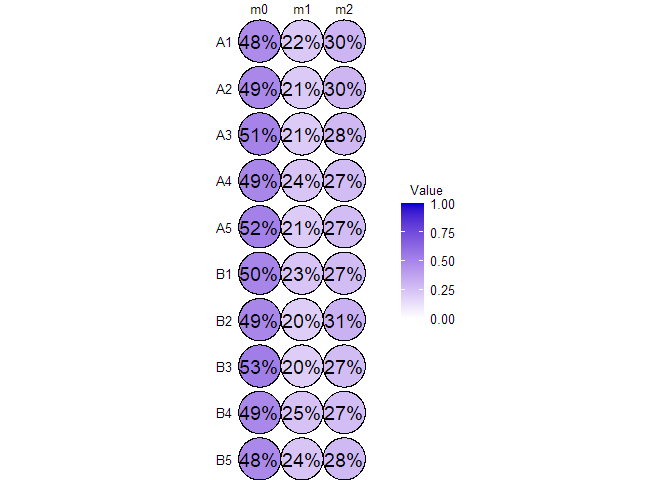
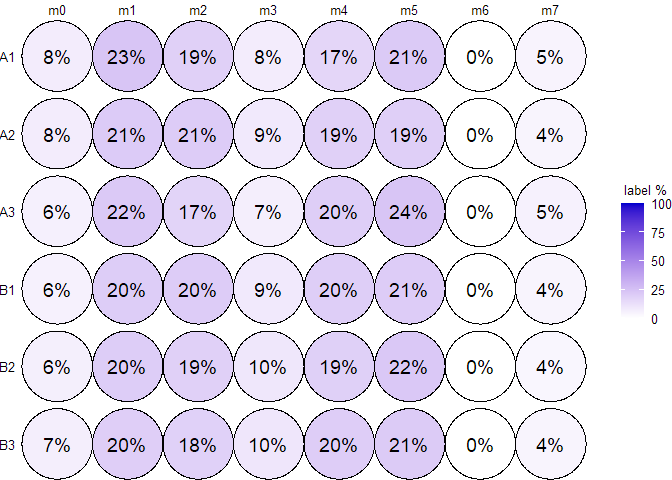
Update generics and methods

diff --git a/README.md b/README.md
@@ -8,20 +8,10 @@
 
 Analysis of isotope-labelled metabolomics data
 
-``` r
-library(c13ms)
-
-Attaching package: 'c13ms'
-The following object is masked from 'package:base':
-
-    array
-library(magrittr)
-```
-
 ### Introduction
 
 ``` r
-C13 <- exampleTracerExperiment()
+C13 <- exampleTracerExperiment(nsamples = 6, nmets = 8)
 
 colnames(C13)
 metnames(C13)
@@ -30,9 +20,9 @@ rownames(C13)
 colData(C13)
 C13$group
 
-# C13 %>% subset(group == "A")
-# C13groups <- split(C13, by = ~ group)
-# C13 <- with(C13groups, A + B)
+C13 %>% subset(group == "A")
+C13groups <- split(C13, by = ~ group)
+C13 <- with(C13groups, A + B)
 
 metData(C13)
 isoData(C13)
@@ -60,8 +50,58 @@ C13 %<>% diffTest(contrasts = contrasts, formula = ~ group, type = "met", method
 C13 %<>% diffTest(contrasts = contrasts, formula = ~ group, type = "met", method = "beta", assay = "frac")
 C13 %<>% diffTest(contrasts = contrasts, formula = ~ group, type = "iso", method = "beta", assay = "mid")
 
-results(C13, "iso", "beta", "mid") %>% head()
-NULL
+results(C13, "iso")
+$beta
+$beta$groupBvsA
+                 pval          diff          lfc         padj     padj_all
+vem_m0   1.434480e-01  0.0000000000          NaN 1.0000000000 1.0000000000
+vem_m1   3.357813e-03 -0.0233465519 -0.222513497 0.1309547044 0.1309547044
+vem_m2   6.964376e-01  0.0043229810  0.048500609 1.0000000000 1.0000000000
+vem_m3   4.629840e-04  0.0147981281          Inf 0.0203712945 0.0203712945
+vem_m4   7.761365e-02  0.0167182054  0.189231211 1.0000000000 1.0000000000
+vem_m5   9.170771e-01 -0.0012888950 -0.011887673 1.0000000000 1.0000000000
+vem_m6             NA            NA           NA           NA           NA
+vem_m7   2.060047e-02  0.0000000000          NaN 0.7622173909 0.7622173909
+lwnri_m0 1.536459e-01 -0.0087766016 -0.200850789 1.0000000000 1.0000000000
+lwnri_m1 3.408775e-01 -0.0082143807 -0.049781909 1.0000000000 1.0000000000
+lwnri_m2 3.668938e-02  0.0102948482  0.139206780 1.0000000000 1.0000000000
+lwnri_m3 1.678479e-04 -0.0122109080 -0.177601802 0.0077210026 0.0077210026
+lwnri_m4 1.265660e-01  0.0181880899  0.139390900 1.0000000000 1.0000000000
+lwnri_m5 1.759482e-01  0.0000000000          NaN 1.0000000000 1.0000000000
+kyw_m0   2.019658e-01 -0.0122258346 -0.344996094 1.0000000000 1.0000000000
+kyw_m1   2.931079e-01 -0.0081050700 -0.344718445 1.0000000000 1.0000000000
+kyw_m2   7.929413e-01  0.0000000000          NaN 1.0000000000 1.0000000000
+kyw_m3   1.318573e-05  0.0151786276  0.144235365 0.0006197295 0.0006197295
+kyw_m4   5.616359e-02  0.0039197262          Inf 1.0000000000 1.0000000000
+kyw_m5   4.782688e-01  0.0000000000          NaN 1.0000000000 1.0000000000
+kyw_m6   8.468263e-02  0.0000000000          NaN 1.0000000000 1.0000000000
+kyw_m7   2.250918e-03 -0.0193397793 -0.852834537 0.0922876352 0.0922876352
+kyw_m8   1.898985e-03  0.0227206343  0.414302344 0.0797573788 0.0797573788
+kyw_m9   4.208577e-01 -0.0039509754 -0.540862467 1.0000000000 1.0000000000
+tyq_m0   9.046403e-01 -0.0012786460 -0.012078244 1.0000000000 1.0000000000
+tyq_m1   1.949329e-01 -0.0113494011 -0.286773070 1.0000000000 1.0000000000
+tyq_m2   9.707506e-01  0.0004199303  0.005360902 1.0000000000 1.0000000000
+tyq_m3   7.914223e-01  0.0011071783  0.051649273 1.0000000000 1.0000000000
+tyq_m4   9.369953e-02  0.0000000000          NaN 1.0000000000 1.0000000000
+tyq_m5   2.821998e-02  0.0000000000          NaN 1.0000000000 1.0000000000
+tyq_m6   2.533645e-01  0.0117449639  0.118164280 1.0000000000 1.0000000000
+tyq_m7   6.053482e-01  0.0000000000          NaN 1.0000000000 1.0000000000
+boxr_m0  5.967137e-01  0.0041625030  0.049649585 1.0000000000 1.0000000000
+boxr_m1  5.967137e-01 -0.0041625030 -0.006831613 1.0000000000 1.0000000000
+odpy_m0  6.663934e-01 -0.0035868932 -0.030523223 1.0000000000 1.0000000000
+odpy_m1  9.143623e-01 -0.0012963917 -0.036294862 1.0000000000 1.0000000000
+odpy_m2  8.331043e-01  0.0004875691  0.153349980 1.0000000000 1.0000000000
+odpy_m3  8.991249e-02 -0.0112898099 -0.414875660 1.0000000000 1.0000000000
+odpy_m4  4.428210e-04 -0.0235856505 -0.435794071 0.0199269437 0.0199269437
+odpy_m5  2.752255e-03  0.0220746728  1.154955715 0.1100901936 0.1100901936
+odpy_m6  3.869598e-01  0.0187434772  0.290919837 1.0000000000 1.0000000000
+odpy_m7  9.711858e-01  0.0003280699  0.014381427 1.0000000000 1.0000000000
+grvk_m0  4.892325e-02  0.0212116284  0.088605237 1.0000000000 1.0000000000
+grvk_m1  2.857272e-01  0.0000000000          NaN 1.0000000000 1.0000000000
+grvk_m2  1.680857e-02 -0.0171520205 -0.042955277 0.6387256679 0.6387256679
+kxsd_m0  1.189820e-03  0.0000000000          NaN 0.0511622682 0.0511622682
+kxsd_m1  2.402056e-01  0.0209971725  0.072297533 1.0000000000 1.0000000000
+kxsd_m2  3.818061e-01 -0.0149538140 -0.040026198 1.0000000000 1.0000000000
 ```
 
 ## Visualization
